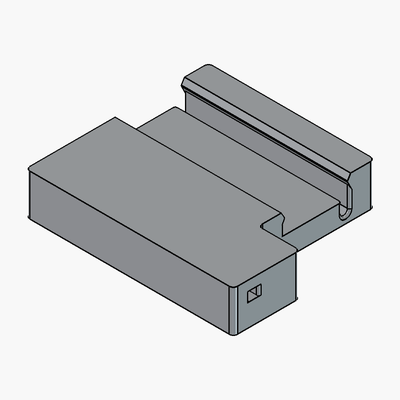
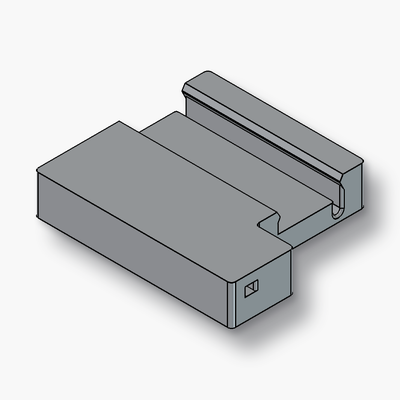
BOM/README: shadows on previews, JLCPCB ordering note
Add a soft drop shadow to the tool part previews and mention that PCBs
and 3D-printed parts can be ordered from JLCPCB.

diff --git a/README.md b/README.md
@@ -27,8 +27,8 @@ join the project's community [Discord Server](https://discord.gg/maRvMVpa2Q).
 
 1. Read this Document and watch the linked videos
 2. Get the parts listed in [Bill of Materials](documentation/bom/bom.md)
-3. Order the PCBs: all production files are ready to upload in [construction/v4_PCB_zip](construction/v4_PCB_zip)
-4. 3D print the parts: all printable files are in [construction/v4_3dprinting_stl](construction/v4_3dprinting_stl)
+3. Order the PCBs: all production files are ready to upload in [construction/v4_PCB_zip](construction/v4_PCB_zip) (e.g. to [JLCPCB](https://jlcpcb.com))
+4. 3D print the parts: all printable files are in [construction/v4_3dprinting_stl](construction/v4_3dprinting_stl). If you don't have a 3D printer, the parts can also be ordered from [JLCPCB](https://jlcpcb.com)
 5. Build the device and electronics
 6. Change the hardware configuration according to your build [hw_config.h](firmware/MotionControllerRP/src/hw_config.h)
 7. Upload firmware using VSCode with PlatformIO plugin

diff --git a/documentation/bom/bom.md b/documentation/bom/bom.md
@@ -2,6 +2,8 @@
 
 Printable parts link directly to their `.stl` file and PCBs to their production `.zip` (Gerber + drill files, ready to upload to a PCB manufacturer).
 
+Both the PCBs and the 3D-printed parts can be ordered from [JLCPCB](https://jlcpcb.com), e.g. if you don't have a 3D printer.
+
 ## Mechanics
 
 | Name | Qty | Description | Comments | Suggested link | Image |
